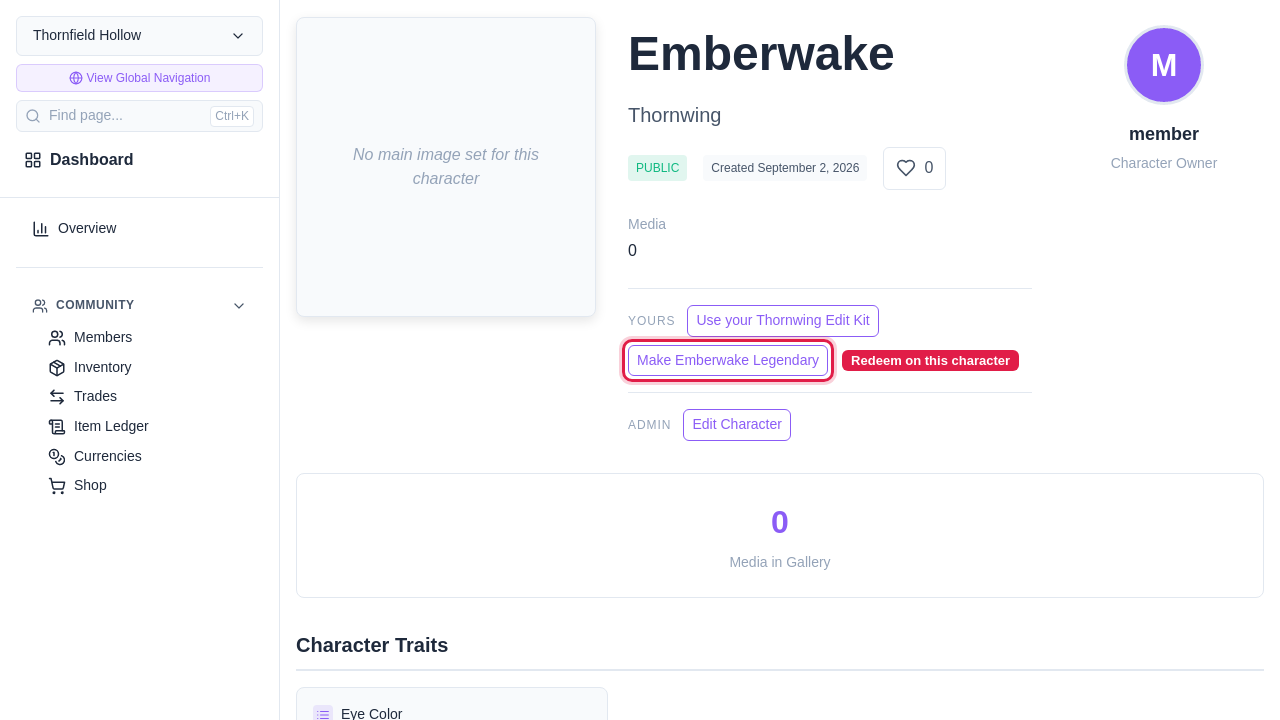
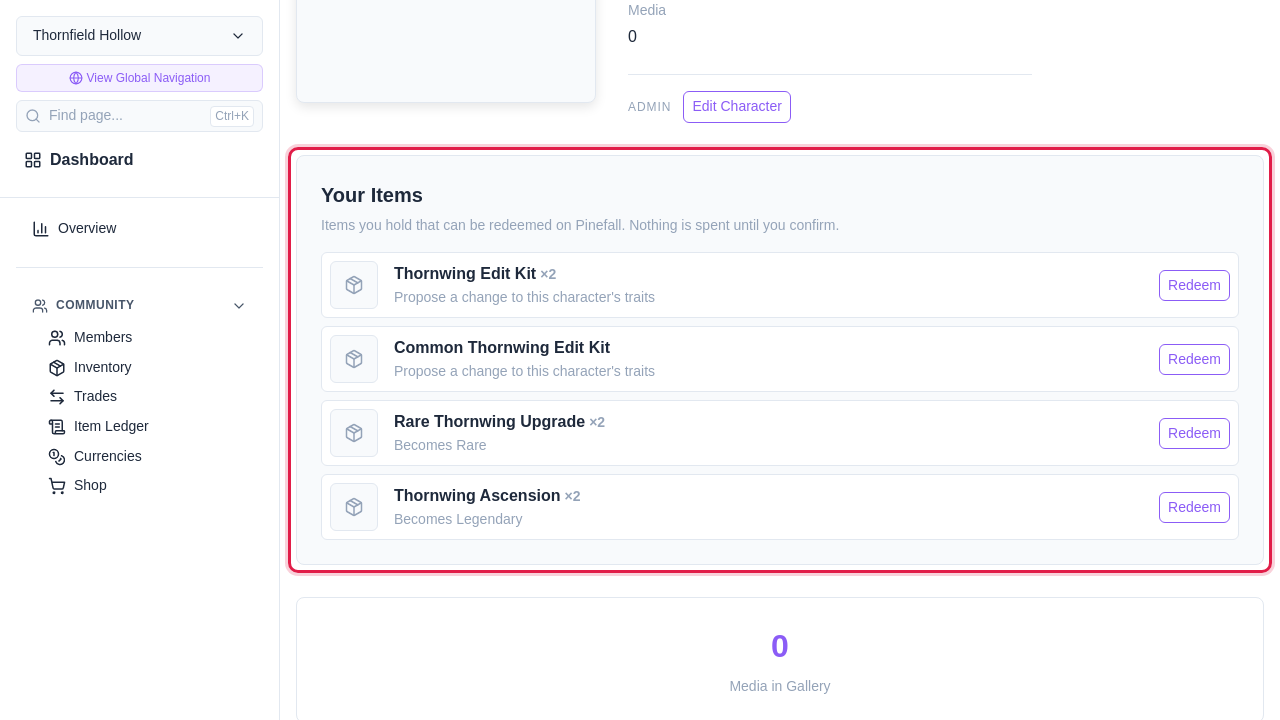
docs(items): retake the character-page shot for the item list
The old one showed the button strip this branch just replaced.

Claude-Session: https://claude.ai/code/session_018NxGrkyN4AUSNc6YaczyMN

diff --git a/docs/docs/variant-change-items.html b/docs/docs/variant-change-items.html
@@ -450,19 +450,21 @@
         <div class="step-content">
           <p>There are two routes, and both reach the same page.</p>
           <p>
-            <strong>From the character.</strong> A character you own shows an
-            action naming the variant it would become, when you hold an item
-            that would move it.
+            <strong>From the character.</strong> A character you own has a
+            <strong>Your Items</strong> section listing the items you hold that
+            work on it, each with what redeeming it would do.
           </p>
         </div>
         <div class="screenshot">
           <img
             src="variant-change-character-entry.png"
-            alt="Emberwake's character page, with the Make Emberwake Legendary button ringed in the action strip labelled Yours, beside a Use your Thornwing Edit Kit button."
+            alt="A character page's Your Items section, ringed, listing two edit kits and two variant change items with an icon, a count, a line saying what each does, and a Redeem button on every row."
           />
           <div class="screenshot-caption">
-            The action names the destination. Holding items that point at two
-            different variants gives a general wording instead.
+            Every kind of redeemable item that works on this character appears
+            here, so <em>Becomes Rare</em> sits beside <em>Propose a change to
+            this character&rsquo;s traits</em>. Redeeming one carries it
+            through to the next page.
           </div>
         </div>
         <div class="step-content">

diff --git a/apps/frontend/CHANGELOG.md b/apps/frontend/CHANGELOG.md
@@ -9,6 +9,11 @@ and this project adheres to [Semantic Versioning](https://semver.org/spec/v2.0.0
 
 ### Added
 
+- **A character page lists the items you hold that work on it**, with an icon,
+  a count, what redeeming does, and a Redeem button each. Replaces two buttons
+  whose labels were assembled sentences. Clicking a row carries that item type
+  to the redemption page, which no longer asks which item you meant.
+
 - **Redeem an item to change a character's variant.** Reachable from the
   character or from the item; nothing is spent until you confirm, and there is
   no variant picker because the item already decided (#172).
